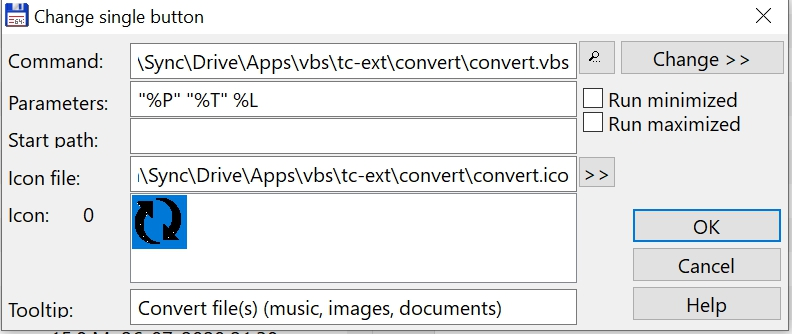
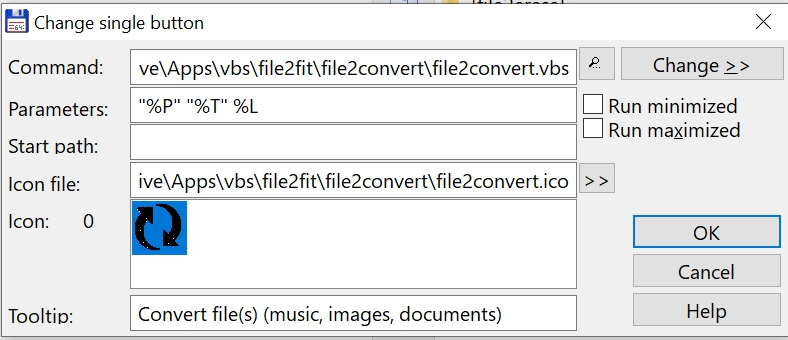
more renaming

diff --git a/readme.md b/readme.md
@@ -37,8 +37,7 @@ Zip files and folders to an AES-encrypted zip-file
 
 ### Pdf2pdf
 
-Split pdf-file (one file for every page)
-Join pdf-files to one pdf-file
+Split pdf-file (one file for every page) or join pdf-files to one pdf-file
 
 
 ## Change log
